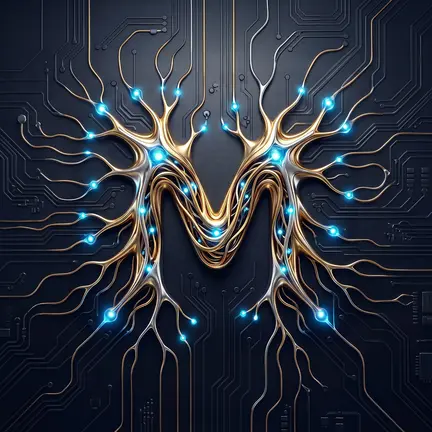
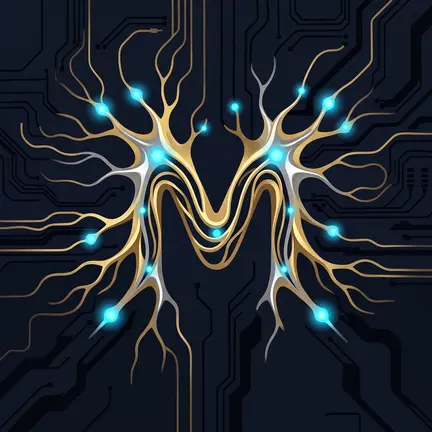
Troca o ícone pela versão plana do M de neurônios
A versão anterior ficou ruim; esta é a arte nova enviada pelo Mauricio
(2048 px). Todos os tamanhos saem dela; a aba do navegador usa o centro
para o M ficar maior.

Claude-Session: https://claude.ai/code/session_01Tkx9jXUnBCx1CmQm6UbKhQ

diff --git a/CLAUDE.md b/CLAUDE.md
@@ -103,7 +103,7 @@ Tema escuro "vidro sobre luzes neon", inspirado no ícone (neurônio de vidro em
 - Degradê da marca só no destaque (cartão "Revisão de hoje", tela de entrada). Ciano `#4FDDFF` = toque e ação (botão principal ciano com texto escuro). Verde-menta `#34D399` = certo; coral `#FF6B5E` = errado (nunca rosa); âmbar = atenção; magenta `#FF4FD8` só na bolinha de novidade.
 - Fundo `#0A0D1C` com 2 luzes suaves, sem quadriculado. Engrenagem em vidro discreto.
 - Matérias em tons de pedra preciosa (texto branco legível): nefro `#2563EB`/`#1E3A8A`, pneumo `#0E7490`/`#155E75`, gastro `#047857`/`#065F46`, orto `#B45309`/`#7C2D12`, uro `#6D28D9`/`#4C1D95`, pass `#BE185D`/`#831843`. A cor clara de cada matéria (agenda, brilho do bloco) fica em `COR_MATERIA` (`lib/agenda.ts`).
-Tokens e regras no fim de `app/globals.css` (bloco "Tema Med Genius"). Ícones do app em `public/icons`, `app/icon.png`, `app/apple-icon.png`; logo em `public/brand/med-genius.webp` (ícone de 20/10/2026, versão sem quadro: neurônios dourados e prateados formando um "M" com pontos azuis, sobre placa de circuito escura que vai até a borda; o original de 1024 px está em `public/brand/med-genius-original.jpg`). Tamanhos: iPhone (`apple-icon`) e Android (`maskable-512`) vêm prontos do pacote do Mauricio; logo da tela de entrada usa a arte inteira (na entrada, a moldura de ouro do CSS); `icon-192`/`icon-512` são a arte inteira com cantos arredondados (22,5%); a aba do navegador (`app/icon.png`, 64 px) usa só o centro (172 a 852 px, um pouco clareado, cantos de raio 14) para o M ficar maior.
+Tokens e regras no fim de `app/globals.css` (bloco "Tema Med Genius"). Ícones do app em `public/icons`, `app/icon.png`, `app/apple-icon.png`; logo em `public/brand/med-genius.webp` (ícone de 20/10/2026, desenho plano: neurônios dourados e prateados formando um "M" com pontos azuis, sobre placa de circuito azul-noite que vai até a borda; o original de 2048 px está em `public/brand/med-genius-original.jpg`). Tamanhos: iPhone (`apple-icon`), Android (`maskable-512`) e logo da tela de entrada usam a arte inteira (na entrada, a moldura de ouro do CSS); `icon-192`/`icon-512` são a arte inteira com cantos arredondados (22,5%); a aba do navegador (`app/icon.png`, 64 px) usa só o centro (quadrado de 1360 px a partir de x 344, y 380; cantos de raio 14) para o M ficar maior.
 Tela de entrada: a da v4 (bloco próprio no fim de `app/globals.css`, com as cores da v4 só nela): logo numa moldura de ouro, "MED GENIUS" prateado com "Medicina · FAG" embaixo e, num cartão de vidro com moldura de cromo, os rótulos CPF e SENHA sobre os campos (ícone à esquerda, texto centralizado, olho para mostrar a senha) e o botão ENTRAR de ouro largo. Sem rodapé e sem aviso de senha esquecida.
 
 Versões do visual salvas no GitHub (ramos fixos, não publicados; não apague):
